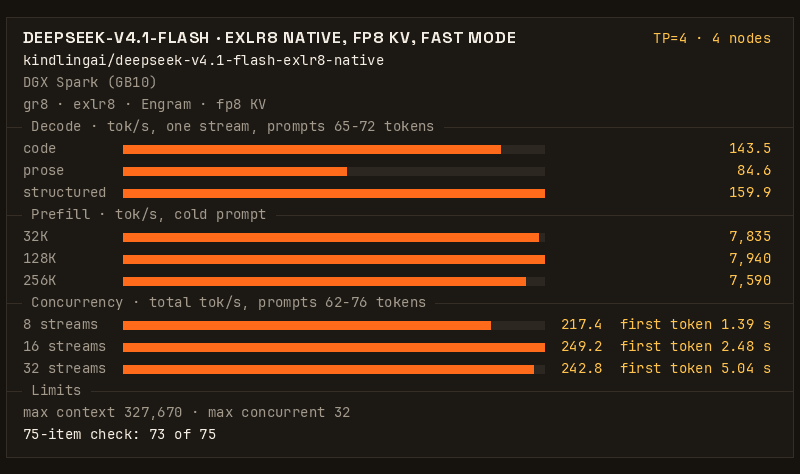
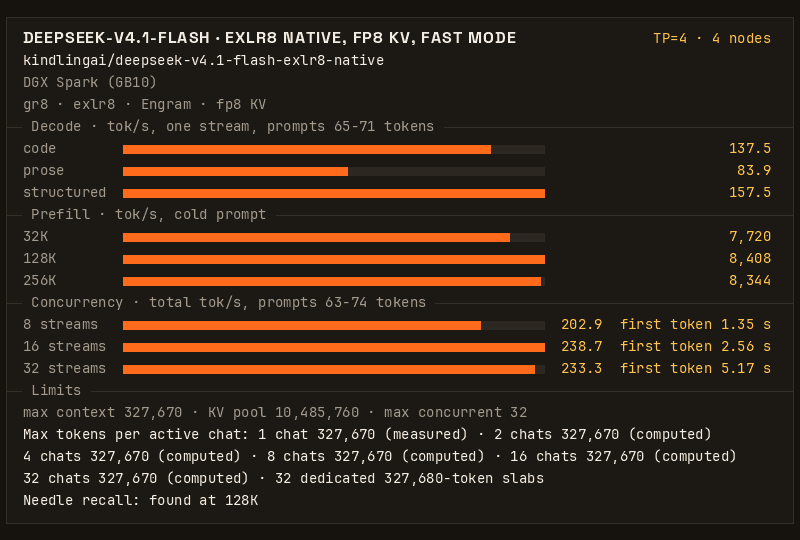
TUNE=speed: 12,288-row v2 prefill defaults, bounded caches, and v1.0 card; gr8 at db6f2c1
Advance gr8 to db6f2c1 (v1.0 main), adopt gr8's default 12,288-row v2 prefill release stack with bounded host caches in TUNE=speed, wire TUNE=quality to gr8's EXACT=1, deduplicate EXTRA_ENV overrides in knobs.sh, and refresh kindling.json and docs/card.png with measured v1.0 numbers and per-chat KV limits.

## What
- `gr8` submodule: `43cad38` -> `db6f2c1` (`db6f2c17c7b05303b69ce667e416d10340aeb9b7`).
- `knobs.sh`:
  - `TUNE=speed` (default) drops the local 8,192-row `release` string so `gr8/scripts/engine_args.sh` activates the 12,288-row v2 prefill release stack (`GR8_DS_PF_V2=1`, `GR8_DS_PF_V2_W16K=1`, `GR8_DS_PREFILL_W=12288`, `GR8_DS_PF_V2_L20_TAIL=1`, `GR8_DS_PF_V2_SEND_FFN_OPT=3`, `GR8_DS_ATTN_TC_TILE=2`, `GR8_S2_ADMIT_HOLD=1`, `GR8_S2_TAIL_FIRST=1`), and sets `GR8_DS_CACHE_MIB=1024` and `GR8_DS_ENGRAM_CACHE_MIB=2048` on 128 GB GB10 hosts.
  - `TUNE=context` is unchanged (`GR8_DS_MHC_ROW_SHARD=1`, `GR8_DS_ATTN_TC_TILE=1`, `GR8_DS_CACHE_MIB=2048`, `SESS=16`, `CAP=1048576`).
  - `TUNE=quality` exports `EXACT=1` (`SESS=5`, `CAP=262144`).
  - Engine keys supplied in `EXTRA_ENV` (including legacy `G6_*` aliases) replace the recipe's own word rather than emitting duplicate keys.
- `.github/workflows/image.yml`: update the no-GPU smoke test for the 12,288-row `TUNE=speed` words, bounded cache settings, `TUNE=quality` `EXACT=1`, `EXTRA_ENV` override deduplication, and zero duplicate `engine.env` keys.
[…]

Changed region(s): [[0.0312, 0.0591, 0.9688, 0.9451], [0.7812, 0.2658, 0.9688, 0.7384], [0.8125, 0.0591, 0.9688, 0.0886]]

diff --git a/README.md b/README.md
@@ -12,8 +12,14 @@ DeepSeek-V4.1-Flash (DeepSeek's release [DeepSeek-V4.1-Flash-1017](https://huggi
 
 ## Results
 
-gr8 [`43cad38`](https://github.com/kindlingai/gr8/commit/43cad388ec8b7026b4feed2190fc5ce5a90c0c6d) in fast mode
-(`TUNE=speed`, the default) with this recipe's settings, from the published image `sha-7c2088a`
+The card above (`kindling.json`) was measured on 2026-11-11 on the staged image built from gr8
+[`c2220f2`](https://github.com/kindlingai/gr8/commit/c2220f2e876409cec3f9660f34589b97e7c899fd) in fast mode
+(`TUNE=speed`, the default, with this recipe's 12,288-row v2 prefill stack, `GR8_DS_CACHE_MIB=1024` and
+`GR8_DS_ENGRAM_CACHE_MIB=2048`), on four GB10 boxes cabled in a ring (one boot, `bench/bench.py`).
+
+The tables below are from earlier runs before those defaults: gr8
+[`43cad38`](https://github.com/kindlingai/gr8/commit/43cad388ec8b7026b4feed2190fc5ce5a90c0c6d) in fast mode
+(`TUNE=speed`, the default) with that image's settings, from the published image `sha-7c2088a`
 (digest `sha256:452d5fcc3de3a22240ad7b879d2985f36e38931aa6eee6c9cc425322a3a90acd`), on four DGX Sparks (GB10, 128 GB
 each) cabled in a ring (set A), on 2026-11-09. Rows and columns marked "release 1 settings" are older numbers: gr8
 `0015fd0` and the settings before this release. The decode right after each prefill is from set A on 2026-11-08; the
@@ -120,7 +126,7 @@ MTU 9000, skip this step and put those addresses in `IPS` and `IPS2`.
 
 Four boxes cabled in a ring without a switch also work, with `SHAPE=ring` and without `IPS` and `IPS2`. Cable each
 box's f0 port to the next box's f1 port, and list `PEERS` in that cable order
-([gr8/docs/DEPLOY.md](https://github.com/kindlingai/gr8/blob/0015fd04512ebc38e369475a1ce7dee76d445d77/docs/DEPLOY.md#how-the-boxes-find-each-other)).
+([gr8/docs/DEPLOY.md](https://github.com/kindlingai/gr8/blob/db6f2c17c7b05303b69ce667e416d10340aeb9b7/docs/DEPLOY.md#how-the-boxes-find-each-other)).
 
 With [`mentat`](https://github.com/kindlingai/mentat) running on each box, the recipe finds the other boxes and their
 ConnectX addresses by itself. On each box:
@@ -236,14 +242,14 @@ it does not alter Docker's daemon settings or other containers. For `docker run`
 
 ## Web console
 
-gr8 has a small web console ([gr8/tools/console](https://github.com/kindlingai/gr8/tree/0015fd04512ebc38e369475a1ce7dee76d445d77/tools/console)):
+gr8 has a small web console ([gr8/tools/console](https://github.com/kindlingai/gr8/tree/db6f2c17c7b05303b69ce667e416d10340aeb9b7/tools/console)):
 one page with the model's stats, the boxes, the head log, three presets, and a switch between models. It runs apart
 from the engine, so it stays up while a model restarts, and it sends no requests to the model.
 
 It is read-only until you set `allow_control` in its config. With control on, it can change the recipe's `.env` on
 each box and restart the model: it keeps a backup of each file and has a "Restore previous settings" action. It has no
 login: keep it on `localhost` and reach it through an SSH tunnel. Its
-[README](https://github.com/kindlingai/gr8/blob/0015fd04512ebc38e369475a1ce7dee76d445d77/tools/console/README.md) has the setup.
+[README](https://github.com/kindlingai/gr8/blob/db6f2c17c7b05303b69ce667e416d10340aeb9b7/tools/console/README.md) has the setup.
 
 ## Knobs
 
@@ -259,20 +265,23 @@ Set these in `.env` next to `compose.yaml` (see `.env.example`), or with `docker
 | `SESS` | `32`; `16` with `TUNE=context`; `5` with `TUNE=quality` | Chats at once, 1 to 32. A chat that arrives when every slot is busy waits. |
 | `MENTAT` | `0` | `1` finds the other boxes and the ConnectX addresses through the host's `mentat` daemon, and registers the API in group `GROUP` (`gr8-ds41-4x`). |
 | `RELEASE` | a fixed commit | The release to fetch (`https://huggingface.co/<org>/<repo>@<commit>`). The fetch replaces only the files that differ. |
-| `EXTRA_ENV` | none | Engine settings as `NAME=value` pairs separated by spaces (`EXTRA_ENV="A=1 B=2"`). They come after the recipe's own. |
+| `EXTRA_ENV` | none | Engine settings as `NAME=value` pairs separated by spaces (`EXTRA_ENV="A=1 B=2"`). Each replaces the recipe's value for that setting and comes after the recipe's own. |
 
-[gr8/KNOBS.md](https://github.com/kindlingai/gr8/blob/0015fd04512ebc38e369475a1ce7dee76d445d77/KNOBS.md) lists the
+[gr8/KNOBS.md](https://github.com/kindlingai/gr8/blob/db6f2c17c7b05303b69ce667e416d10340aeb9b7/KNOBS.md) lists the
 other `gr8` options, which you can also set in `.env`. Some engine settings for `EXTRA_ENV`:
 
-- `GR8_DS_CACHE_MIB` sets the in-memory prefix cache on each box: 4,096 MiB by default, 2,048 with `TUNE=context`. A
-  restart empties it.
+- `GR8_DS_CACHE_MIB` sets the in-memory prefix cache on each box: 1,024 MiB with `TUNE=speed`, 2,048 with
+  `TUNE=context`, 4,096 with `TUNE=quality` (gr8's default when unset). A restart empties it.
+- `GR8_DS_ENGRAM_CACHE_MIB` sets the host cache of Engram table rows on each box: 2,048 MiB with `TUNE=speed`, 4,096
+  with `TUNE=context` and `TUNE=quality` (gr8's default when unset).
 - A setting you put in `EXTRA_ENV` replaces the recipe's value for it.
 
 ### What `TUNE=speed` sets
 
-`TUNE=speed` turns on these engine settings, one line each. A setting from the list in `EXTRA_ENV` replaces it. The
-rows marked "output" change the reply; the others give the same reply faster or with less memory.
-[gr8/docs/ENV.md](https://github.com/kindlingai/gr8/blob/43cad388ec8b7026b4feed2190fc5ce5a90c0c6d/docs/ENV.md) has the full text of each.
+`TUNE=speed` turns on the recipe's fast-mode and cache switches (`knobs.sh`) and gr8's default v2 prefill release stack
+(`gr8/scripts/engine_args.sh`), one row each below. A `GR8_*` setting in `EXTRA_ENV` replaces it. The rows marked
+"output" change the reply; the others give the same reply faster or with less memory.
+[gr8/docs/ENV.md](https://github.com/kindlingai/gr8/blob/db6f2c17c7b05303b69ce667e416d10340aeb9b7/docs/ENV.md) has the full text of each.
 
 | setting | what it does |
 |---|---|
@@ -280,18 +289,22 @@ rows marked "output" change the reply; the others give the same reply faster or 
 | `GR8_DS_MOE_TOPK_DECODE=4` | output: a decode step takes 4 routed experts, fewer than prefill takes. |
 | `GR8_DS41_HEAD_MX=1` | output: the decode output head in MXFP8, so it reads a little over half the bytes. |
 | `GR8_DS_ATTN_TC_MF=2`, `GR8_DS_ATTN_TC_TILE=2` | the grid order and the tile of the tensor-core GEMM (tile 2: persistent blocks); the same output bits. `TUNE=context` keeps tile 1. |
-| `GR8_DS_PF_V2=1` | the v2 prefill path for layers 0 to 20: each box keeps its own rows, with its own fabric and stream. |
+| `GR8_DS_CACHE_MIB=1024` | 1,024 MiB of in-memory prefix cache per box (`TUNE=context` sets `2048`; unset is `4096`). |
+| `GR8_DS_ENGRAM_CACHE_MIB=2048` | 2,048 MiB of host cache for Engram's table rows per box (8 M of 256-byte rows; unset is `4096`). |
+| `GR8_DS_PF_V2=1` | the v2 prefill path for layers 0 to 20: each box keeps its own rows, with its own fabric and stream (`GR8_DS_PF_V2=0` uses the 4,096-row path). |
 | `GR8_DS_PF_LANES=1` | one prefill lane (v2 needs one). |
 | `GR8_DS_PF_TAIL=128` | the late layers run only the last 128 rows of each prefill chunk (v2 needs 128). |
-| `GR8_DS_PREFILL_W=8192` | prefill chunks of 8,192 rows. |
+| `GR8_DS_PREFILL_W=12288`, `GR8_DS_PF_V2_W16K=1` | prefill chunks of 12,288 rows (`GR8_DS_ATTN_PW` and `GR8_DS41_IDX_PW` follow `GR8_DS_PREFILL_W`; `GR8_DS_PF_V2_W16K=0` uses 8,192-row chunks). |
+| `GR8_DS_PF_V2_L20_TAIL=1` | output: layer 20 runs only the 128-row chunk tail on prefill, with bounded replay when a later chat hits a prefix-cached interior slice. |
+| `GR8_DS_PF_V2_SEND_FFN_OPT=3` | v2 prefill publishes each quarter from the compute stream and unpacks both FFN halves together; the same output bits. |
 | `GR8_DS_SH_TC=1` | output: the shared expert of prefill runs on the tensor cores with MXFP8 input. |
-| `GR8_DS_MHC_ROW_SHARD=0`, `GR8_DS_MHC_Y_MXFP8=0` | the mHC row split off. v2 with 8,192-row chunks needs it off; it applies to prefill only. |
+| `GR8_DS_MHC_ROW_SHARD=0`, `GR8_DS_MHC_Y_MXFP8=0` | the mHC row split off (gr8's default; v2 prefill needs it off, and it applies to prefill only). |
 | `GR8_DS_PF_V2_RS_BLOCKS=48` | v2 reduce-scatter with 48 blocks (gr8's default). |
-| `GR8_DS_PF_V2_PACK_BLOCKS=48` | v2 wire pack and unpack with 48 blocks. |
+| `GR8_DS_PF_V2_PACK_BLOCKS=48` | v2 wire pack and unpack with 48 blocks (gr8's default). |
 | `GR8_DS_PF_V2_GATE_RO=1` | v2 expert gate reads its weights once per tile. |
 | `GR8_DS_PF_V2_STRIPE_MIN=1048576` | v2 splits a message of 1 MiB or more across two fabric rails (`IPS` and `IPS2`). |
 | `GR8_DS_PF_V2_ATTN_PIPE=1` | v2 attention loads the next block of keys while it works on the current one. |
-| `GR8_DS_ENGRAM_IO_URING=128` | Engram reads its rows with io_uring (needs the seccomp profile). |
+| `GR8_DS_ENGRAM_IO_URING=128` | Engram reads its rows with io_uring (gr8's default; needs the seccomp profile). |
 | `GR8_DS_ENGRAM_IO_THREADS=64` | Engram's thread pool when io_uring is off. |
 | `GR8_DS_ENGRAM_COL_SHARD=1` | each box holds a quarter of Engram's columns (gr8's default). |
 | `GR8_S2_ADMIT_HOLD=1` | a burst of queued chats is admitted at one step boundary instead of one per notice. |
@@ -303,13 +316,13 @@ rows marked "output" change the reply; the others give the same reply faster or 
 
 | `TUNE` | what you get |
 |---|---|
-| `speed` (default) | Fast mode, the settings in "Results": faster, but replies are not bit-identical to the exact model's. 32 chats at once, each up to 327,670 tokens. |
+| `speed` (default) | Fast mode (above): faster, but replies are not bit-identical to the exact model's. 32 chats at once, each up to 327,670 tokens. |
 | `context` | Fast mode with one chat of up to 1,048,566 tokens, 16 chats at once. |
 | `quality` | The exact model's output. 5 chats at once, each up to 262,134 tokens. |
 
 ## Switch between this and GLM-5.3 on the same four boxes
 
-To run this recipe and [gr8's GLM-5.3](https://github.com/kindlingai/gr8/blob/0015fd04512ebc38e369475a1ce7dee76d445d77/docs/GLM-5.3.md) at TP=4 on the same
+To run this recipe and [gr8's GLM-5.3](https://github.com/kindlingai/gr8/blob/db6f2c17c7b05303b69ce667e416d10340aeb9b7/docs/GLM-5.3.md) at TP=4 on the same
 four boxes, one model at a time, two settings make the switch fast:
 
 - `GR8_GEN_CACHE` in both models' `EXTRA_ENV` (`.env.example` turns it on for this recipe): the loader keeps the tensors

diff --git a/AGENTS.md b/AGENTS.md
@@ -65,16 +65,16 @@ Set the same values on all four boxes, in `.env` (compose) or with `docker run -
 
 | `TUNE` | the settings it sets (`knobs.sh`) | what it gives |
 |---|---|---|
-| `speed` (default) | `GR8_DS_RELAXED_ACCEPT=topp:0.9,ratio:0.1 GR8_DS_MOE_TOPK_DECODE=4 GR8_DS41_HEAD_MX=1 GR8_DS_ATTN_TC_MF=2` and the release stack (README.md "What `TUNE=speed` sets": v2 prefill, `GR8_DS_MHC_ROW_SHARD=0 GR8_DS_MHC_Y_MXFP8=0`, Engram io_uring, `GR8_DS_ATTN_TC_TILE=2`, `GR8_S2_ADMIT_HOLD=1 GR8_S2_TAIL_FIRST=1`), `SESS=32`, `CAP=327680` | fast mode, measured in README.md "Results": 32 chats of up to 327,670 tokens; replies not bit-identical to the exact model's |
+| `speed` (default) | `GR8_DS_RELAXED_ACCEPT=topp:0.9,ratio:0.1 GR8_DS_MOE_TOPK_DECODE=4 GR8_DS41_HEAD_MX=1 GR8_DS_ATTN_TC_MF=2 GR8_DS_CACHE_MIB=1024 GR8_DS_ENGRAM_CACHE_MIB=2048` and gr8's default v2 release stack (README.md "What `TUNE=speed` sets": 12,288-row v2 prefill with `GR8_DS_PF_V2=1 GR8_DS_PF_V2_W16K=1 GR8_DS_PF_V2_L20_TAIL=1 GR8_DS_PF_V2_SEND_FFN_OPT=3`, `GR8_DS_ATTN_TC_TILE=2`, `GR8_S2_ADMIT_HOLD=1 GR8_S2_TAIL_FIRST=1`, Engram io_uring), `SESS=32`, `CAP=327680` | fast mode: 32 chats of up to 327,670 tokens; replies not bit-identical to the exact model's |
 | `context` | the four switches above, `GR8_DS_ATTN_TC_TILE=1`, `GR8_DS_MHC_ROW_SHARD=1`, `GR8_DS_CACHE_MIB=2048`, `SESS=16`, `CAP=1048576` (not the release stack) | fast mode: one chat of up to 1,048,566 tokens, 16 chats at once |
-| `quality` | none of those switches, `GR8_DS_MHC_Y_MXFP8` included (gr8's launcher defaults), `SESS=5`, `CAP=262144` | the exact model's output: 5 chats of up to 262,134 tokens |
+| `quality` | gr8's `EXACT=1` (the old prefill path, none of fast mode's or v2's switches), `SESS=5`, `CAP=262144` | the exact model's output: 5 chats of up to 262,134 tokens |
 
 What else `knobs.sh` does:
 
 - Every value also sets Engram (`GR8_DS_ENGRAM=1`, `GR8_DS_ENGRAM_PREFIX`).
 - Every value adds `GR8_DS_SESS_DRAFTS=1` when `SESS` is above 5.
 - A `CAP` or `SESS` you set is kept.
-- Settings in `EXTRA_ENV` come after the recipe's, so yours win.
+- An engine setting in `EXTRA_ENV` replaces the recipe's value for it and comes after the recipe's own.
 - `.env.example` sets `EXTRA_ENV=GR8_GEN_CACHE=/var/lib/gr8/home/gen-cache`, so a `.env` copied from it has the gen
   cache on: the loader keeps the tensors it computes at load on the box's disk and reads them back at the next boot with
   the same cache key (the same image, rank and release, and a `TUNE` of the same kind: `quality`, or `speed` and
@@ -85,7 +85,7 @@ What else `knobs.sh` does:
   rewrite and a slow first boot, so say so before the person changes `TUNE` between those kinds later. To turn it off,
   put a `#` in front of that line in `.env` on all four boxes before the boot.
 - Any other `TUNE` value stops the boot. `EXACT` is the older name: the image refuses it and says that `EXACT=1` is
-  `TUNE=quality`.
+  `TUNE=quality` and `EXACT=0` is `TUNE=speed`.
 
 Every knob:
 
@@ -225,9 +225,16 @@ If a step fails for a reason not listed here, ask on the KindlingAI Discord (the
 
 ## 6. Not measured yet: tell the person
 
-- README.md "Results": the set A rows were measured on 2026-11-09 on this recipe's published image `sha-7c2088a`
-  (gr8 `43cad38`). Rows and columns marked "release 1 settings" (the decode right after each prefill, the set B many-stream
-  rows, the first boot from a cold disk, the switch rows) are from gr8 `0015fd0` and the settings before this release; they were not measured again. The KV cache is always fp8, and the image's engine is built with `DS41_MX=48`.
+- `kindling.json` and `docs/card.png` were measured on 2026-11-11 on the staged image built from gr8 `c2220f2`
+  (`TUNE=speed`: 12,288-row v2 prefill stack, `GR8_DS_CACHE_MIB=1024`, `GR8_DS_ENGRAM_CACHE_MIB=2048`, four GB10 boxes
+  in a ring, one boot; at least 3.25 GiB of host memory stayed free per box across ten distinct 128.9K cold prompts,
+  256K prefill, and 32-stream concurrency). In README.md "Results", the tables below the card are still from earlier
+  builds: the set A rows from 2026-11-09 on the published image `sha-7c2088a` (gr8 `43cad38`, 8,192-row v2 prefill
+  chunks without `GR8_DS_PF_V2_L20_TAIL=1` or `GR8_DS_PF_V2_SEND_FFN_OPT=3`), and the rows and columns marked "release
+  1 settings" (the decode right after each prefill, the set B many-stream rows, the first boot from a cold disk, the
+  switch rows) from gr8 `0015fd0` and the settings before that release. Those multi-series, closed-loop, boot, switch,
+  and 75-item quality rows have not been re-run on this image yet. The KV cache is always fp8, and the image's engine
+  is built with `DS41_MX=48`.
 - `TUNE=context` was measured on the image `sha-15b7eec` in one boot on 2026-11-07: a cold 1,031,542-token prompt read in 388.7 s (2,650 tok/s), the same prompt again in 1.19 s from
   the prefix cache, replies after it at 91.9 tok/s, and 8.7-9.4 GiB free a box just after ready. Recall and output
   quality at 1M, and three distinct cold 1M prompts at once, are not measured on that image.
